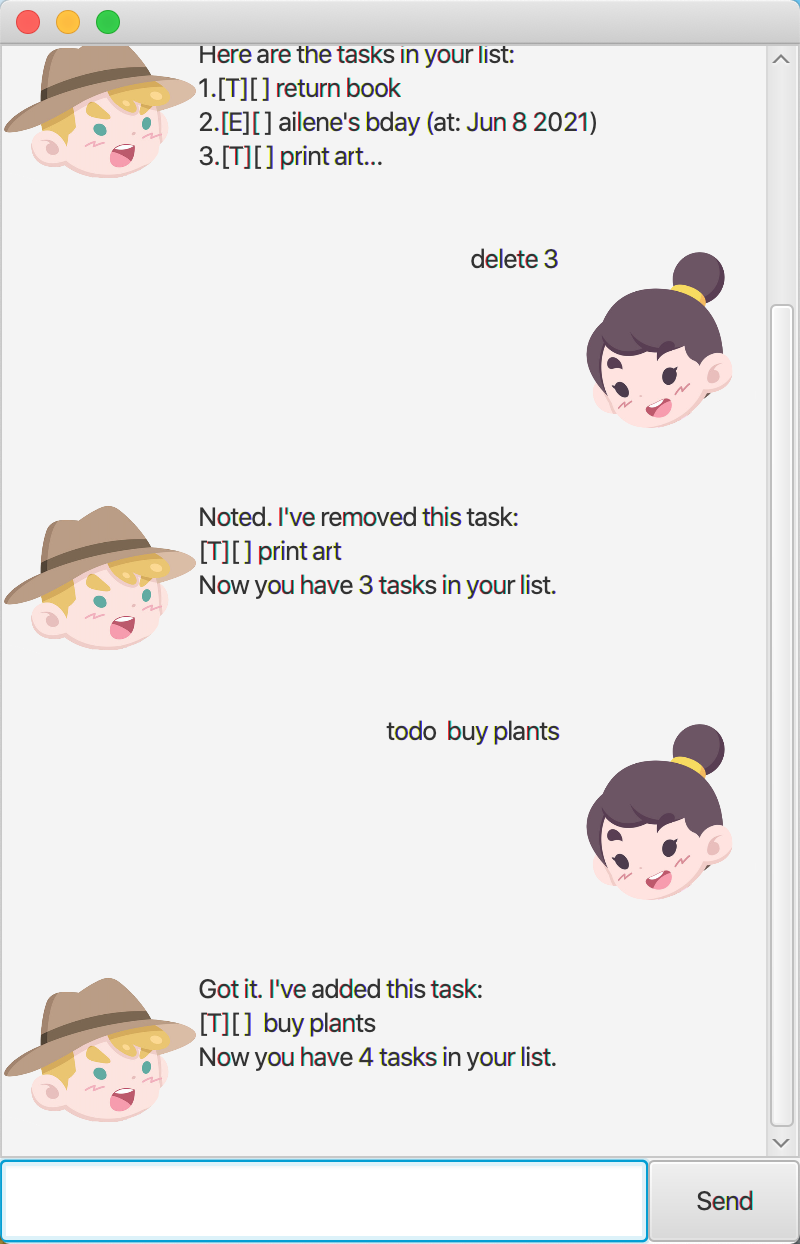
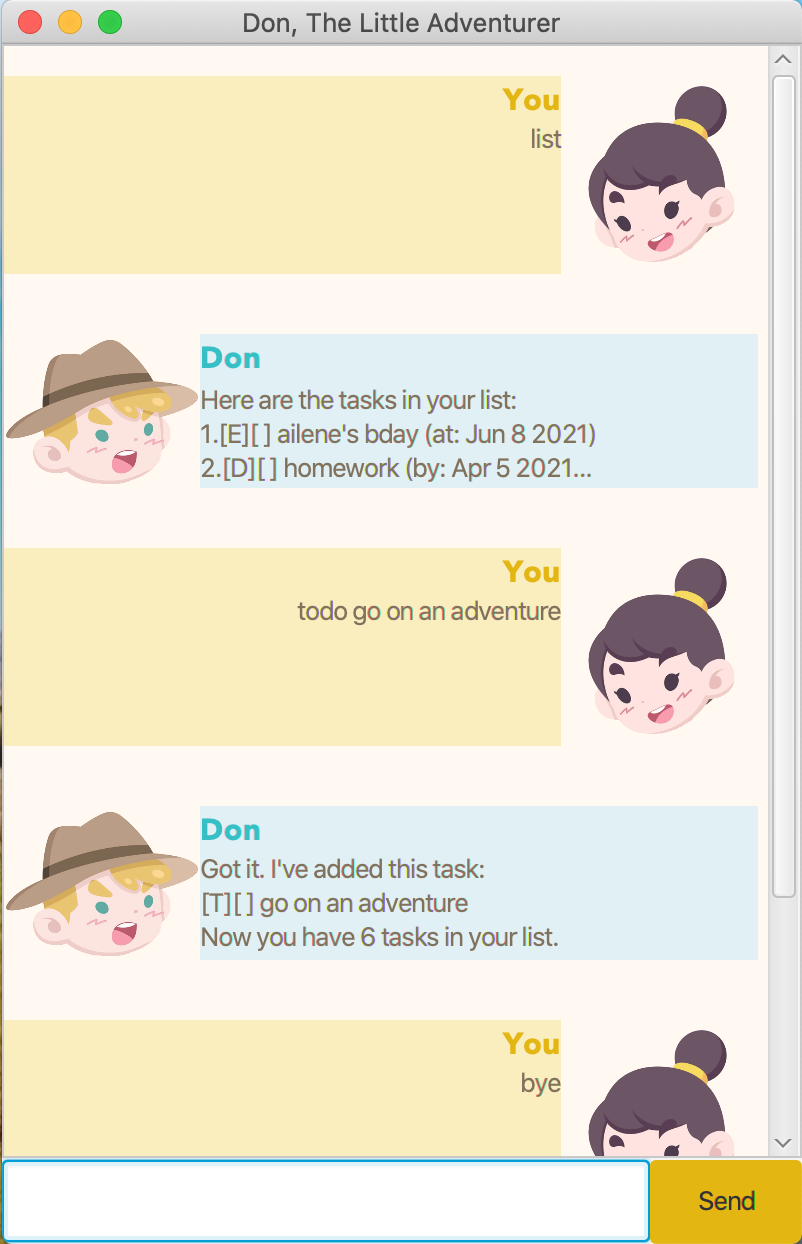
Improve GUI

diff --git a/src/main/java/DialogBox.java b/src/main/java/DialogBox.java
@@ -19,13 +19,15 @@ import javafx.scene.layout.HBox;
  */
 public class DialogBox extends HBox {
     @FXML
-    private Label dialog;
+    private Label nameLabel, dialog;
     @FXML
     private ImageView displayPicture;
 
-    private DialogBox(String text, Image img) {
+    private String resourceName = "/view/DialogBox.fxml";
+
+    public DialogBox(String name, String text, Image img, String resourceName) {
         try {
-            FXMLLoader fxmlLoader = new FXMLLoader(MainWindow.class.getResource("/view/DialogBox.fxml"));
+            FXMLLoader fxmlLoader = new FXMLLoader(MainWindow.class.getResource(resourceName));
             fxmlLoader.setController(this);
             fxmlLoader.setRoot(this);
             fxmlLoader.load();
@@ -33,27 +35,32 @@ public class DialogBox extends HBox {
             e.printStackTrace();
         }
 
+        nameLabel.setText(name);
         dialog.setText(text);
         displayPicture.setImage(img);
     }
 
-    /**
-     * Flips the dialog box such that the ImageView is on the left and text on the right.
-     */
-    private void flip() {
-        ObservableList<Node> tmp = FXCollections.observableArrayList(this.getChildren());
-        Collections.reverse(tmp);
-        getChildren().setAll(tmp);
-        setAlignment(Pos.TOP_LEFT);
+//    /**
+//     * Flips the dialog box such that the ImageView is on the left and text on the right.
+//     */
+//    private void flip() {
+//        ObservableList<Node> tmp = FXCollections.observableArrayList(this.getChildren());
+//        Collections.reverse(tmp);
+//        getChildren().setAll(tmp);
+//        setAlignment(Pos.TOP_LEFT);
+//    }
+
+    public static DialogBox getDialog(String name, String text, Image img, String resourceName) {
+        return new DialogBox(name, text, img, resourceName);
     }
 
-    public static DialogBox getUserDialog(String text, Image img) {
-        return new DialogBox(text, img);
-    }
-
-    public static DialogBox getDukeDialog(String text, Image img) {
-        var db = new DialogBox(text, img);
-        db.flip();
-        return db;
-    }
+//    public static UserDialogBox getUserDialog(String text, Image img) {
+//        return new UserDialogBox("You", text, img);
+//    }
+//
+//    public static DialogBox getDukeDialog(String text, Image img) {
+//        var db = new DialogBox("Don", text, img);
+////        db.flip();
+//        return db;
+//    }
 }

diff --git a/src/main/java/UserDialogBox.java b/src/main/java/UserDialogBox.java
@@ -1,0 +1,42 @@
+import java.io.IOException;
+import java.util.Collections;
+
+import javafx.collections.FXCollections;
+import javafx.collections.ObservableList;
+import javafx.fxml.FXML;
+import javafx.fxml.FXMLLoader;
+import javafx.geometry.Pos;
+import javafx.scene.Node;
+import javafx.scene.control.Label;
+import javafx.scene.image.Image;
+import javafx.scene.image.ImageView;
+import javafx.scene.layout.HBox;
+
+public class UserDialogBox extends DialogBox{
+    @FXML
+    private Label nameLabel, dialog;
+    @FXML
+    private ImageView displayPicture;
+
+    private String resourceName = "/view/UserDialogBox.fxml";
+
+    public UserDialogBox(String name, String text, Image img, String resourceName) {
+        super(name, text, img, resourceName);
+//        try {
+//            FXMLLoader fxmlLoader = new FXMLLoader(MainWindow.class.getResource("/view/UserDialogBox.fxml"));
+//            fxmlLoader.setController(this);
+//            fxmlLoader.setRoot(this);
+//            fxmlLoader.load();
+//        } catch (IOException e) {
+//            e.printStackTrace();
+//        }
+//
+//        nameLabel.setText(name);
+//        dialog.setText(text);
+//        displayPicture.setImage(img);
+    }
+
+    public static UserDialogBox getDialog(String name, String text, Image img, String resourceName) {
+        return new UserDialogBox(name, text, img, resourceName);
+    }
+}

diff --git a/src/main/java/MainWindow.java b/src/main/java/MainWindow.java
@@ -44,8 +44,8 @@ public class MainWindow extends AnchorPane {
         String input = userInput.getText();
         String response = duke.getResponse(input);
         dialogContainer.getChildren().addAll(
-                DialogBox.getUserDialog(input, userImage),
-                DialogBox.getDukeDialog(response, dukeImage)
+                UserDialogBox.getDialog("You", input, userImage, "/view/UserDialogBox.fxml"),
+                DialogBox.getDialog("Don", response, dukeImage, "/view/DialogBox.fxml")
         );
         userInput.clear();
     }

diff --git a/src/main/java/Main.java b/src/main/java/Main.java
@@ -17,6 +17,7 @@ public class Main extends Application {
     public void start(Stage stage) {
         try {
             duke.prepare();
+            stage.setTitle("Don, The Little Adventurer");
             FXMLLoader fxmlLoader = new FXMLLoader(Main.class.getResource("/view/MainWindow.fxml"));
             AnchorPane ap = fxmlLoader.load();
             Scene scene = new Scene(ap);
